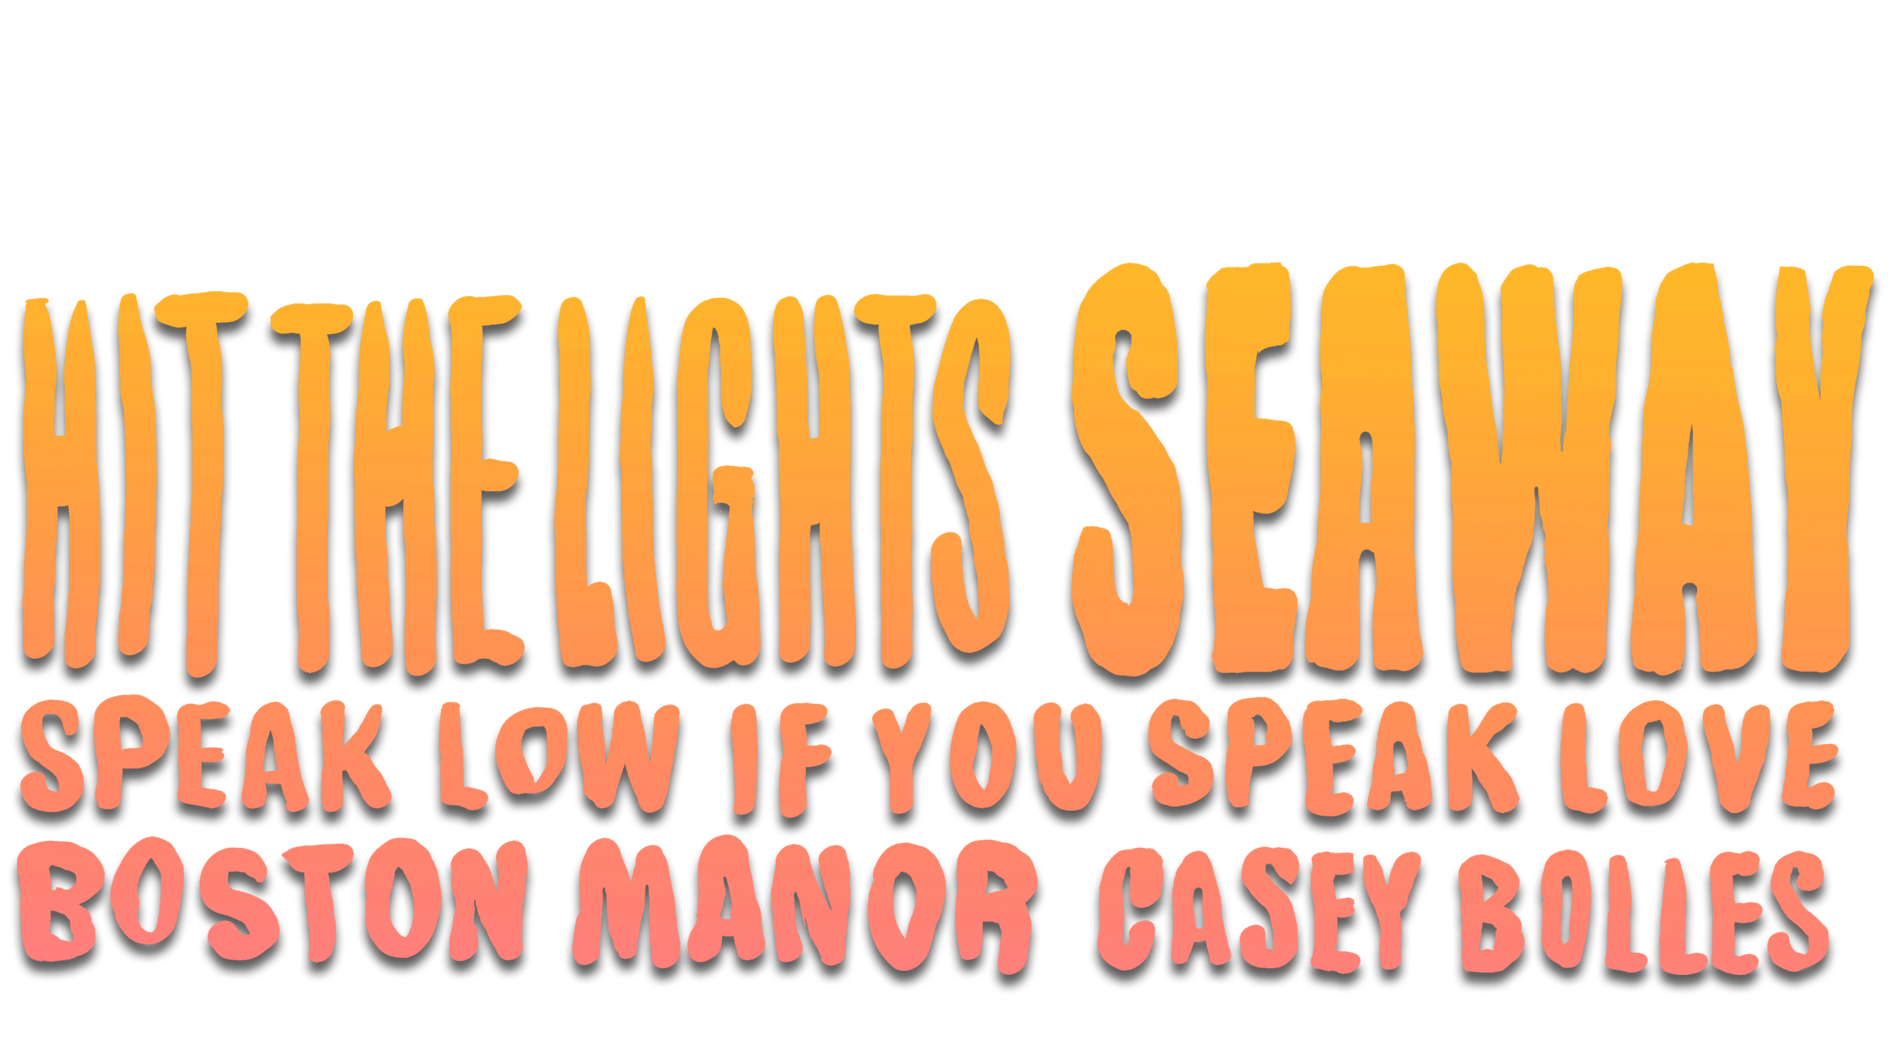
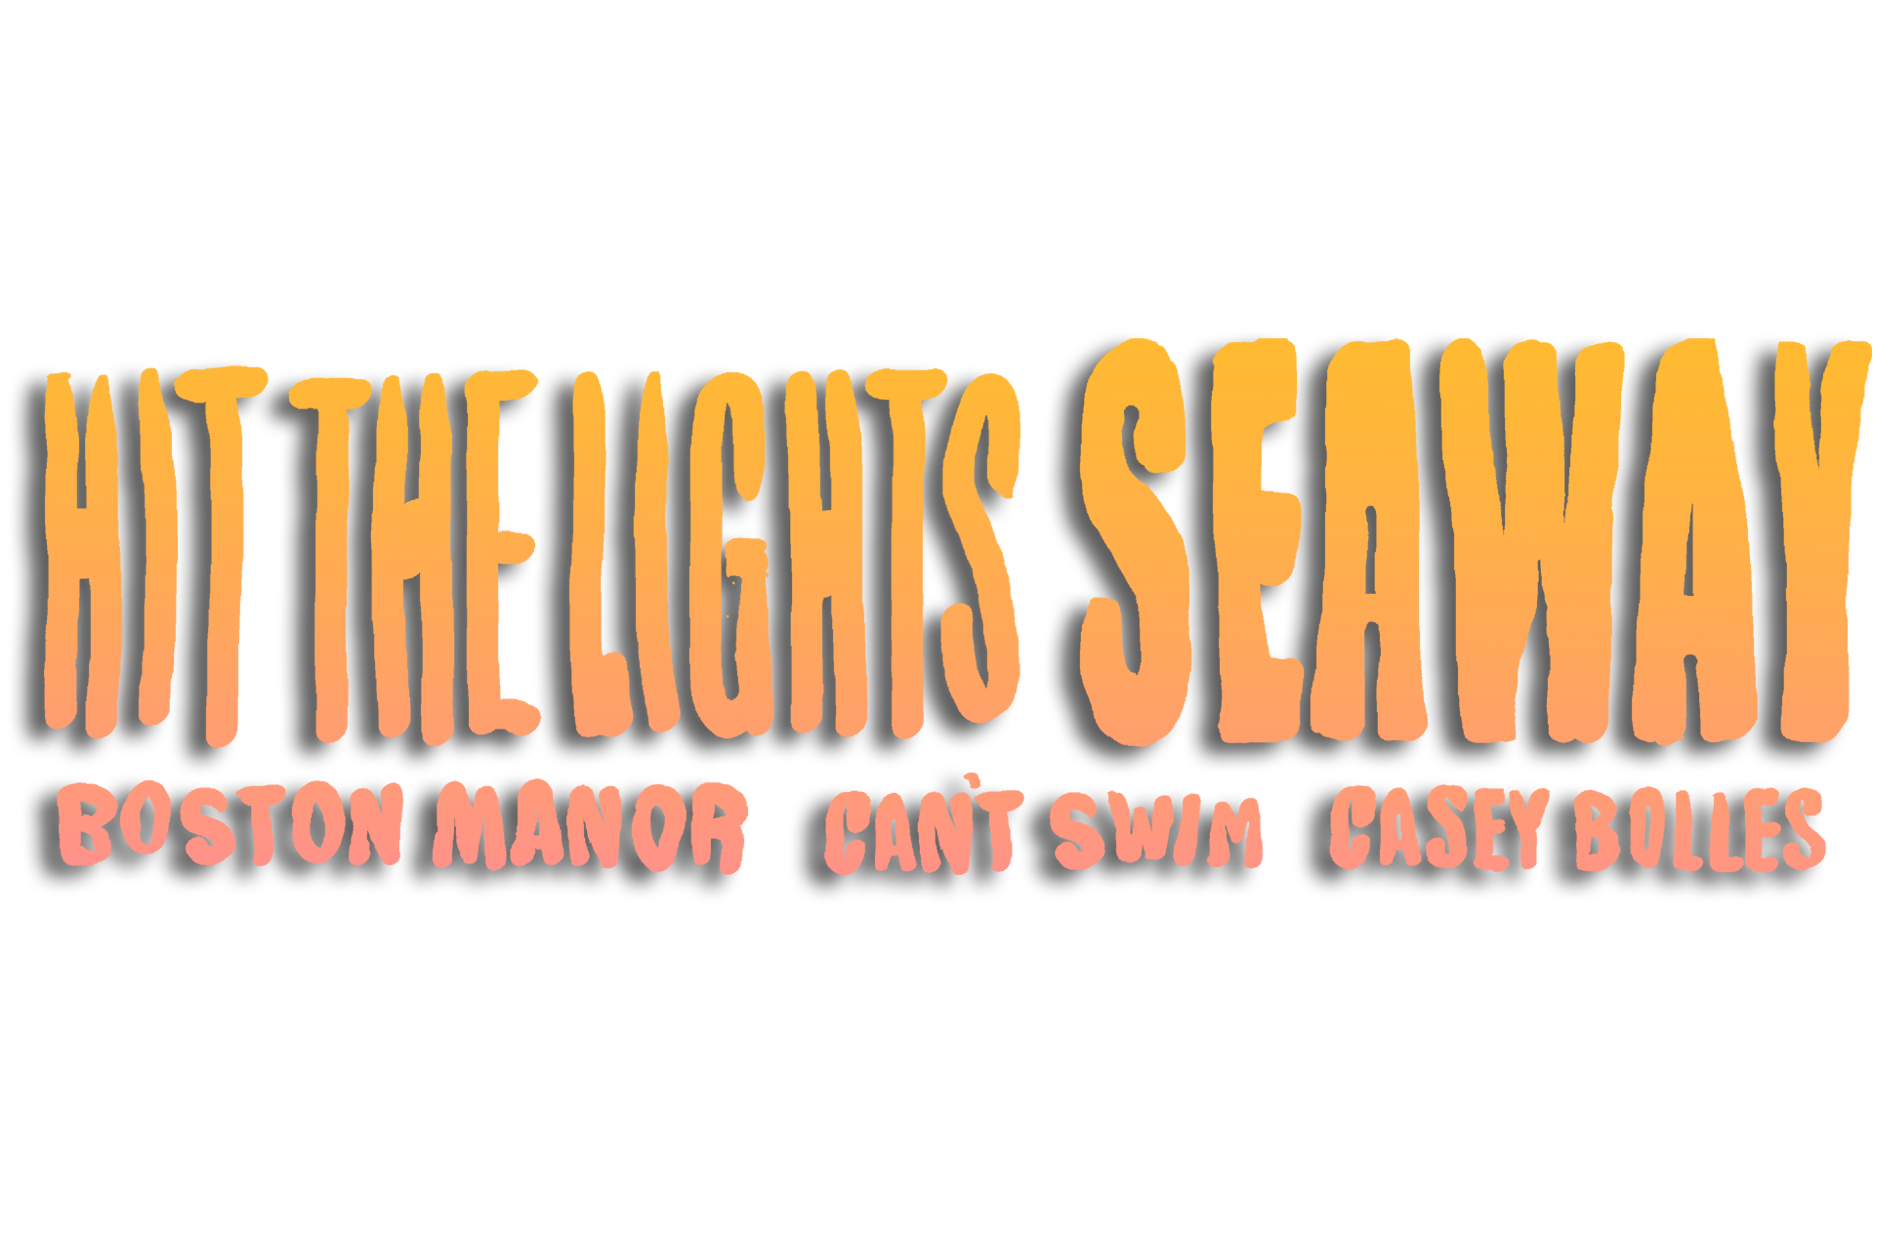
updated admat

diff --git a/index.html b/index.html
@@ -47,7 +47,7 @@
             <i class="fa fa-tumblr-square"></i>
           </a>
         </div>
-        <img src="img/band-names2.png" class="img-responsive"/>
+        <img src="img/band-names.png" class="img-responsive"/>
       </div>
 
       <!-- Tour Section -->
